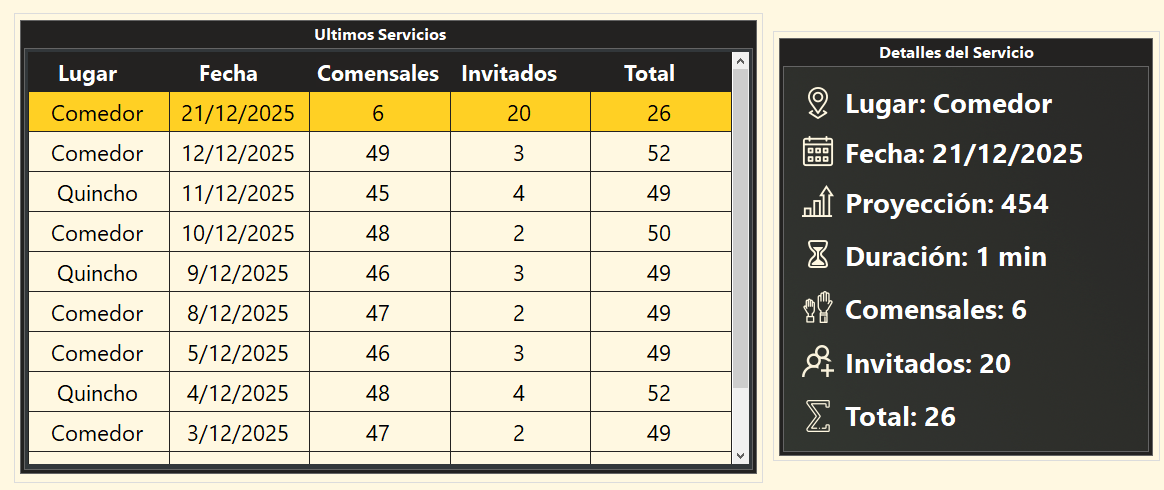
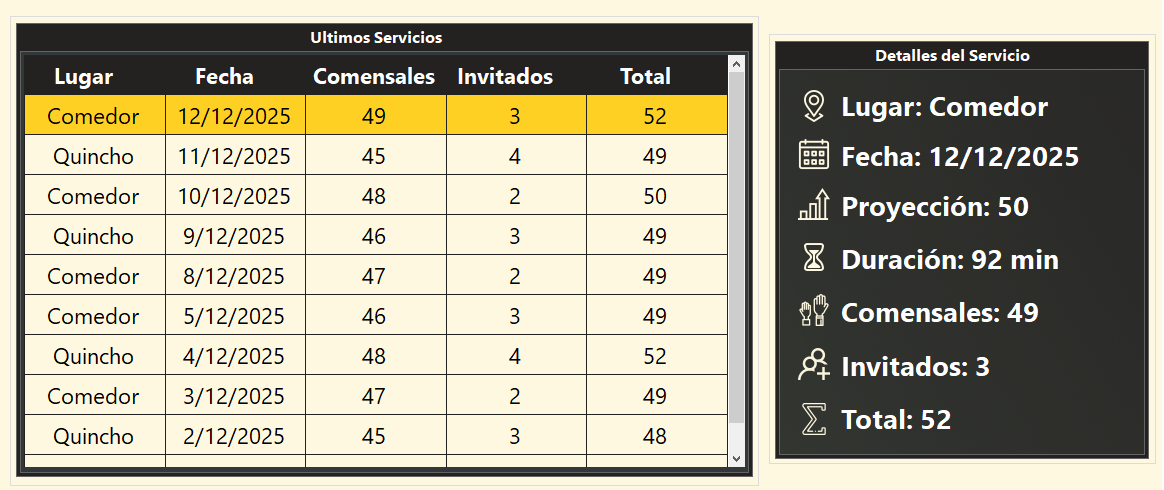
README actualizado

Changed region(s): [[0.0, 0.0, 1.0, 1.0]]

diff --git a/README.md b/README.md
@@ -36,8 +36,33 @@ Sistema completo de gestión de comedores corporativos desarrollado en C# con Wi
 
 ##  Funcionalidades del Sistema
 
-| <img src="./docs/menu_lateral.png" alt="Menú Lateral" width="80"/> | **Menú de Navegación Lateral**<br><br>El sistema cuenta con un menú lateral fijo que permite acceder rápidamente a todos los módulos:<br><br>• **Inicio**: Panel de bienvenida (sin servicio activo) o Registro de Comensales (con servicio activo)<br>• **Registro Manual**: Acceso al módulo de registro manual de comensales<br>• **Reportes**: Sistema de reportes y análisis estadístico<br>• **Administración**: Panel administrativo<br><br>Características de Navegación:<br>• Iconos intuitivos para cada módulo<br>• Tooltips informativos al pasar el cursor<br>• Indicador visual de sección activa<br>• Diseño minimalista que maximiza el espacio de trabajo<br>• Acceso rápido sin menús desplegables<br>• Navegación fluida entre módulos sin recargas |
-|:---:|:---|
+
+<table>
+  <tr>
+    <td width="120" style="border-radius:6px 0 0 6px; border:1px solid #ccc; border-right:none; text-align:center; vertical-align:top; padding:0;">
+      <img src="./docs/menu_lateral.png" alt="Menú Lateral" width="100" style="display:block; margin:0; padding:0;"/>
+    </td>
+    <td style="vertical-align:top; padding-left:16px; border:none;">
+      <h3 style="margin-bottom: 0.7em;">Menú de Navegación Lateral</h3>
+      El sistema cuenta con un menú lateral fijo que permite acceder rápidamente a todos los módulos:
+      <ul>
+        <li><b>Inicio</b>: Panel de bienvenida (sin servicio activo) o Registro de Comensales (con servicio activo)</li>
+        <li><b>Registro Manual</b>: Acceso al módulo de registro manual de comensales</li>
+        <li><b>Reportes</b>: Sistema de reportes y análisis estadístico</li>
+        <li><b>Administración</b>: Panel administrativo</li>
+      </ul>
+      <b>Características de Navegación:</b>
+      <ul>
+        <li>Iconos intuitivos para cada módulo</li>
+        <li>Tooltips informativos al pasar el cursor</li>
+        <li>Indicador visual de sección activa</li>
+        <li>Diseño minimalista que maximiza el espacio de trabajo</li>
+        <li>Acceso rápido sin menús desplegables</li>
+        <li>Navegación fluida entre módulos sin recargas</li>
+      </ul>
+    </td>
+  </tr>
+</table>
 
 ###  Panel de Bienvenida
 
@@ -407,43 +432,6 @@ Sistema-Control-Almuerzos/
 - `tr_ValidarServicioActivo`: Previene múltiples servicios activos simultáneos
 
 ---
-
-##  Implementación y Adaptabilidad
-
-### Flexibilidad de Implementación
-
-Este sistema está diseñado para adaptarse a diferentes escenarios de implementación:
-
-**Opción 1: Nueva Base de Datos**
-- El proyecto incluye scripts SQL completos para crear la base de datos desde cero
-- `Script_Sistema_Control_Almuerzos.sql`: Creación de tablas, relaciones y constraints
-- `Procedimientos_Vistas_Triggers.sql`: Objetos de base de datos (SPs, vistas, triggers)
-- `Datos_Iniciales.sql`: Datos de ejemplo para testing
-- Configuración de cadena de conexión desde el módulo de Configuración
-- Sistema listo para usar en minutos
-
-**Opción 2: Adaptación a Base de Datos Existente**
-- El sistema puede integrarse con una base de datos corporativa existente
-- Se pueden adaptar los procedimientos almacenados para trabajar con tablas preexistentes
-- Los mappers (`negocio/Mappers/`) facilitan la adaptación a estructuras diferente
-
-## Requisitos del Sistema
-
-**Software Requerido:**
-- **Visual Studio 2019 o superior**
-- **.NET Framework 4.8**
-- **SQL Server 2019 o superior** 
-- **Windows 10 o superior**
-
-**Hardware Mínimo:**
-- Procesador: Intel Core i3 o equivalente
-- RAM: 4 GB (recomendado 8 GB)
-- Espacio en disco: 500 MB
-
-**Hardware Futuro (RFID):**
-- Lector RFID 
-- Conexión USB
-- Credenciales RFID compatibles
 
 ## Módulos del Sistema
 
